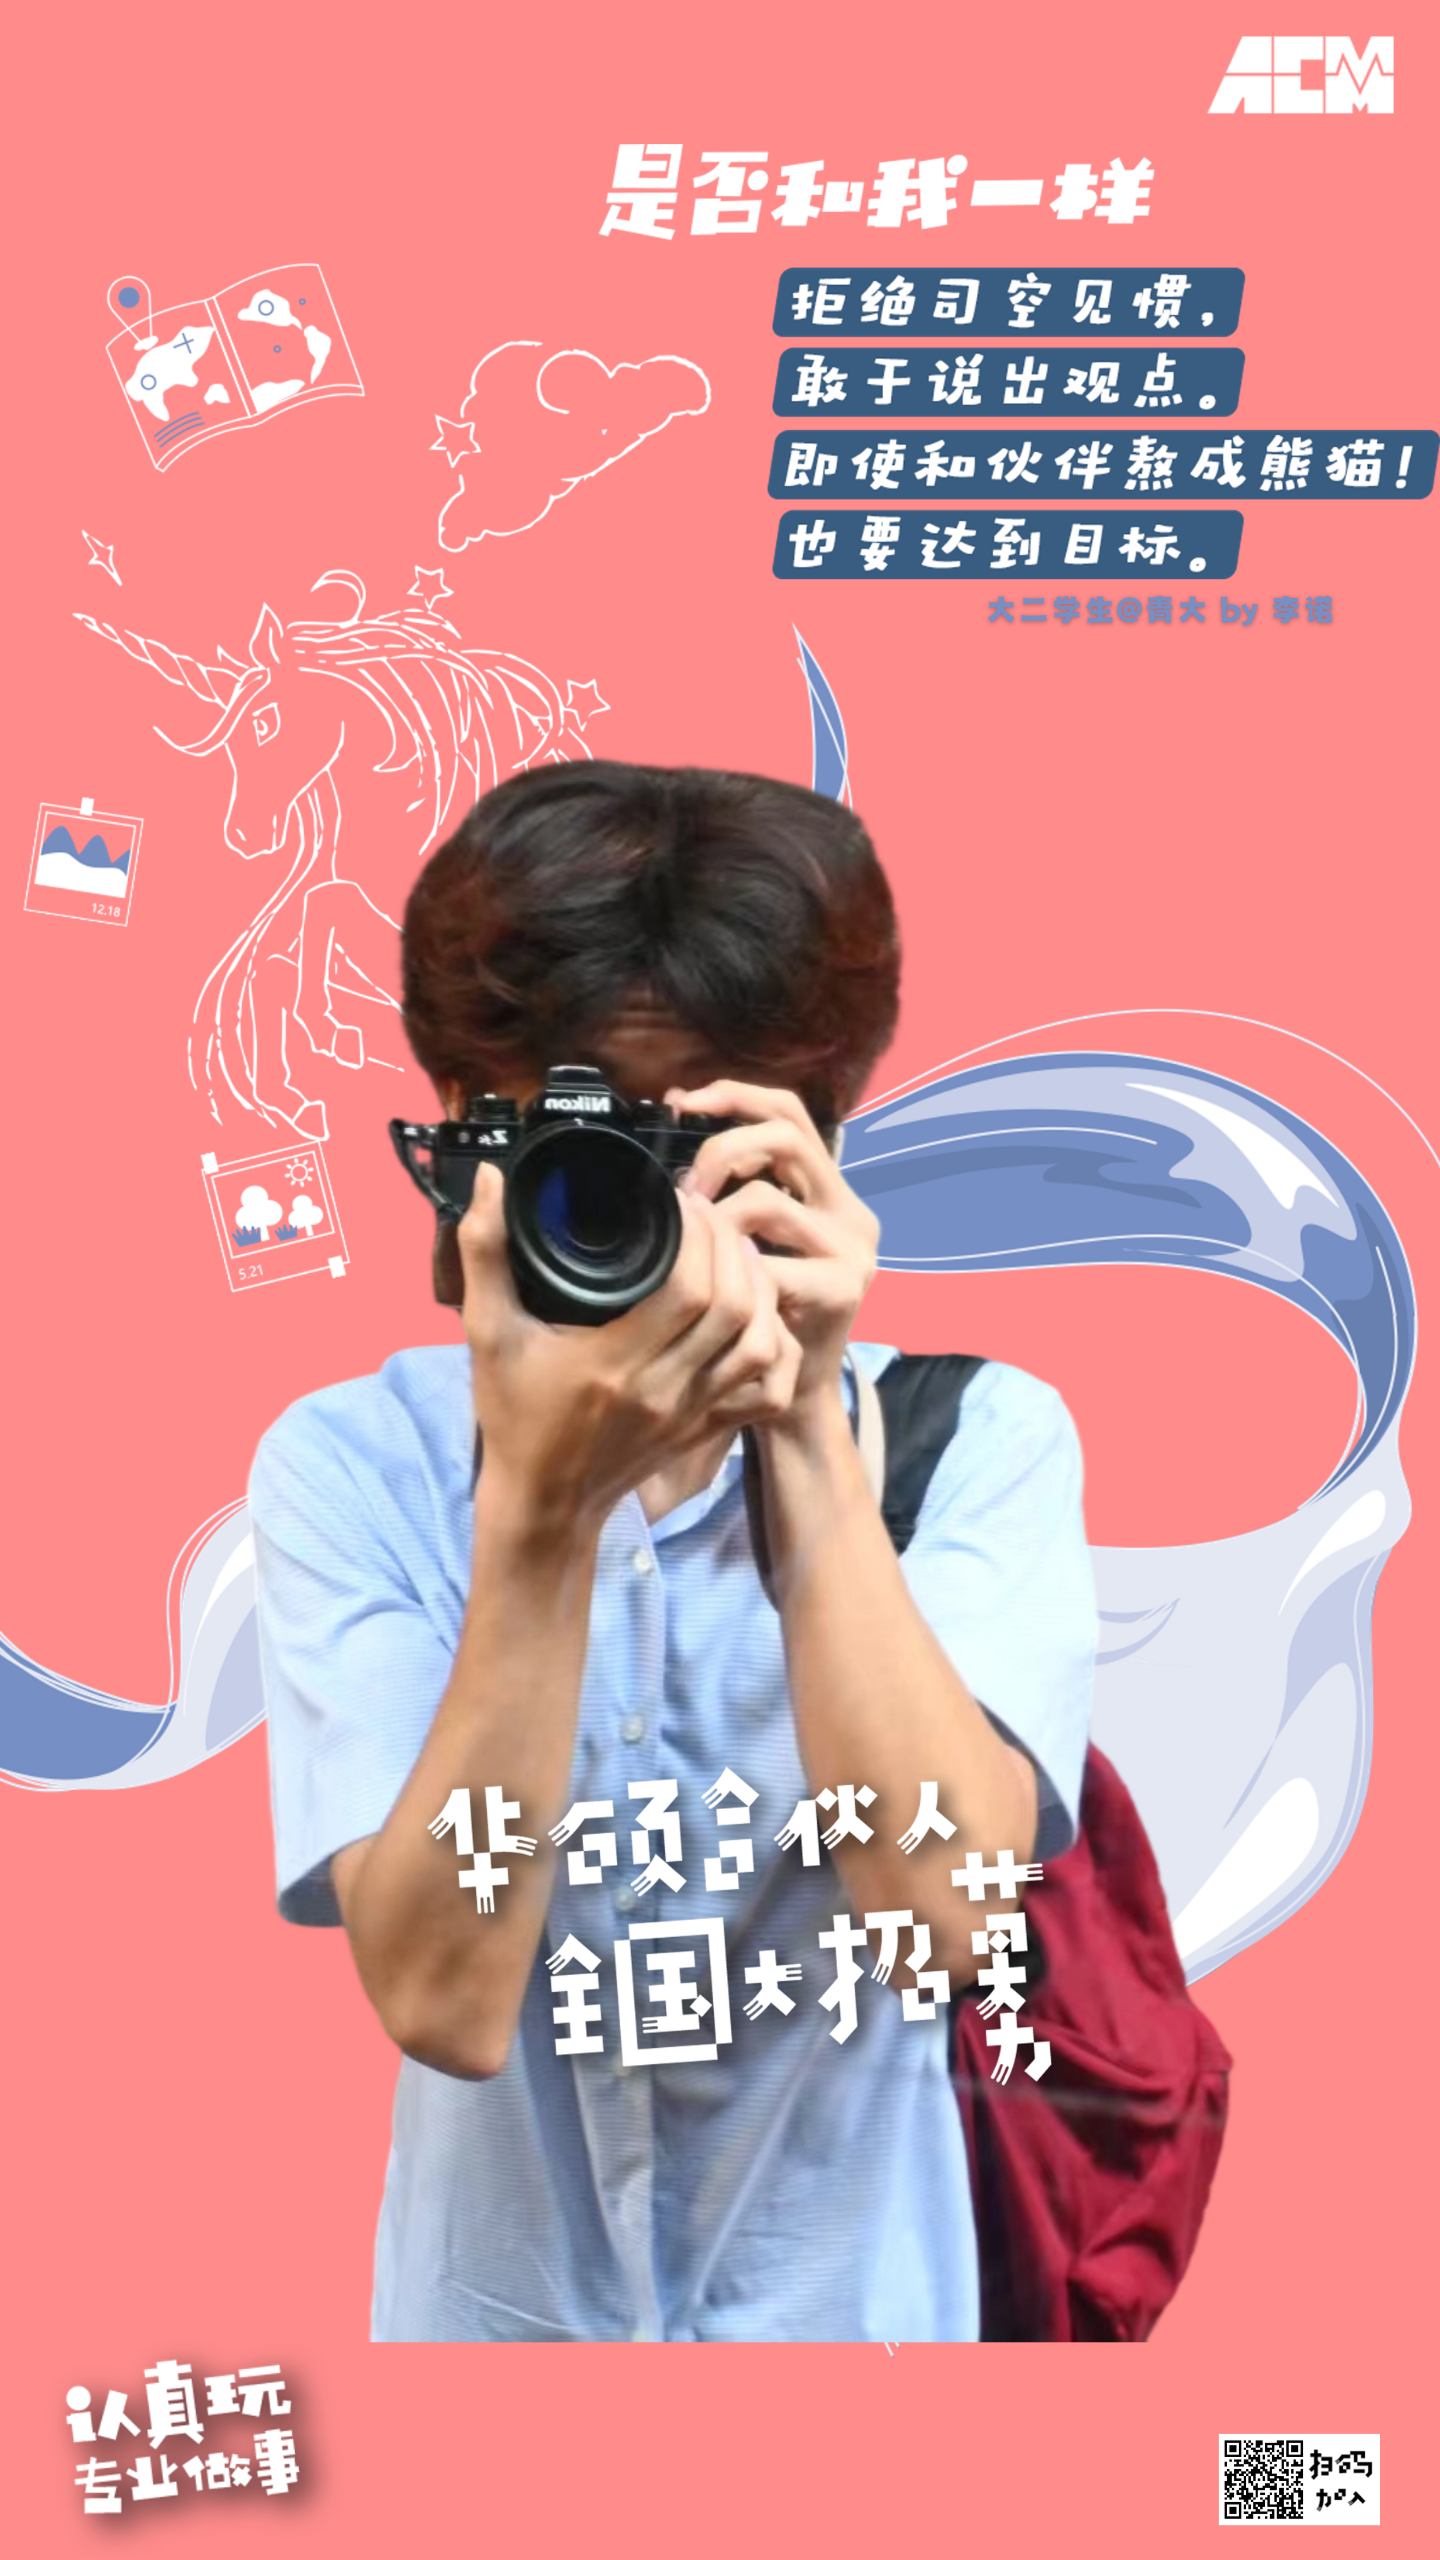
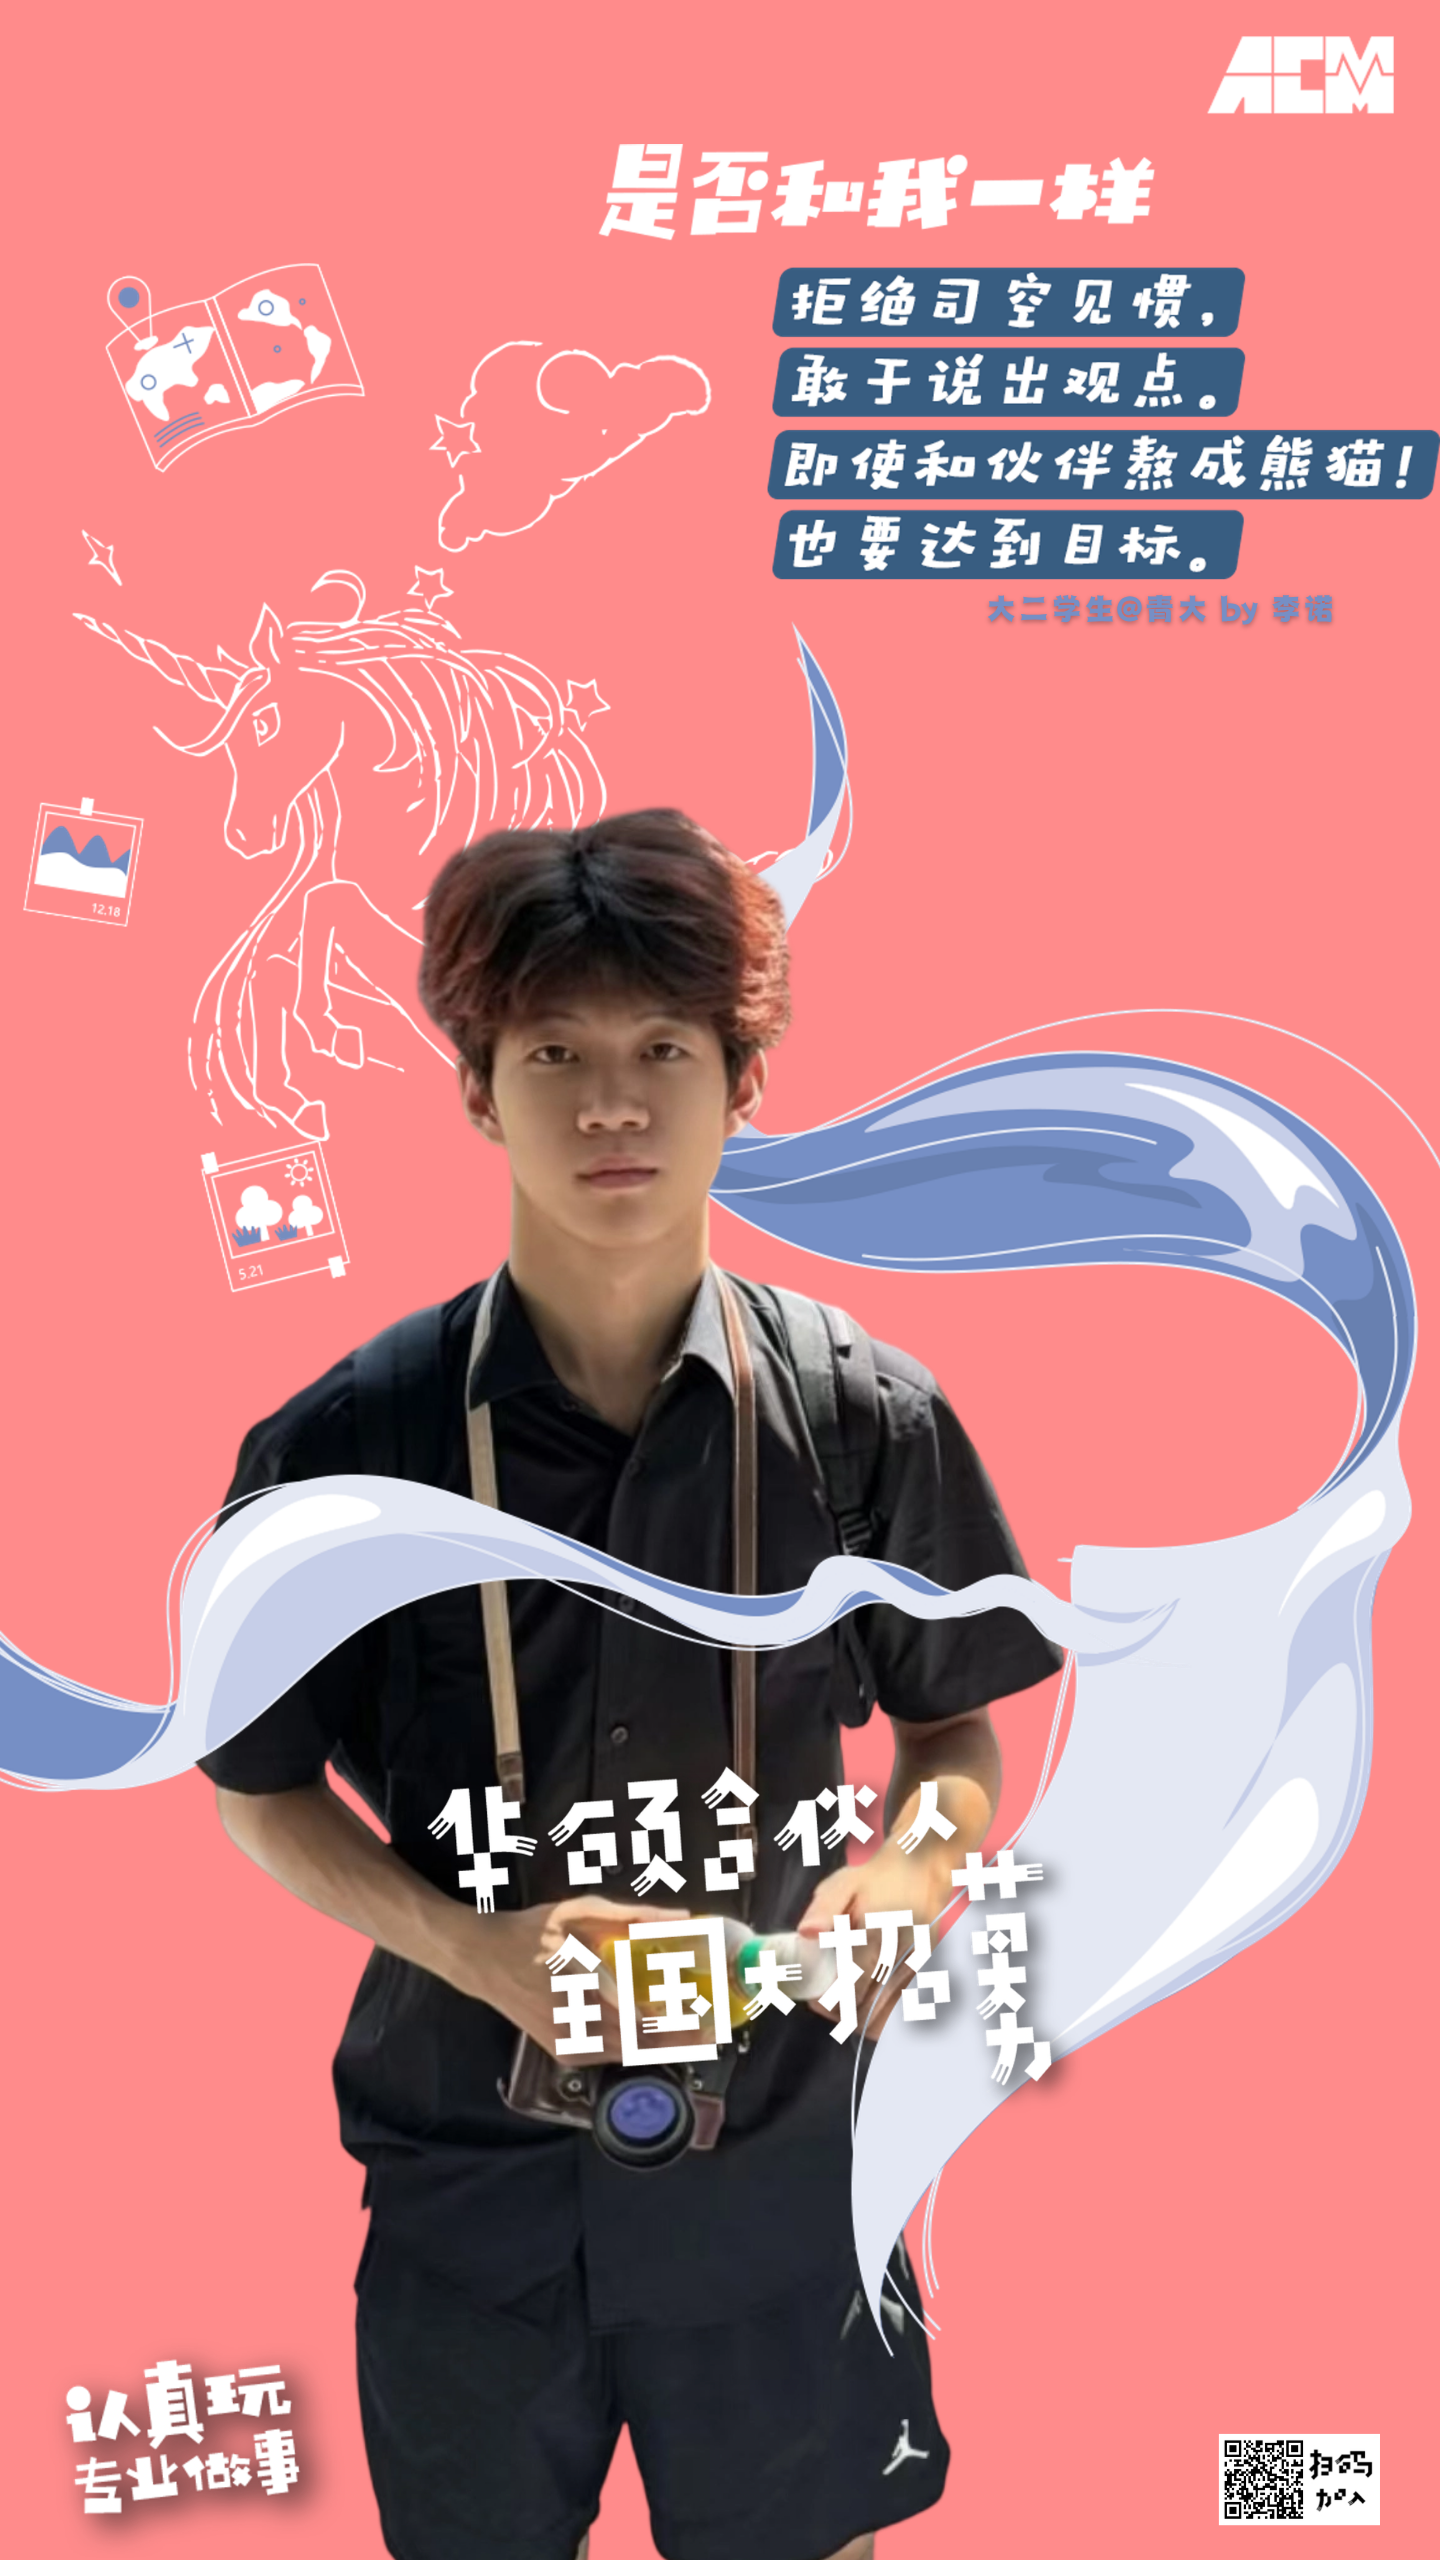
feat: 代言人海报扩充至 6 位（新增陈东宇/常灿/谭远鹏/骆帅，李诺换新海报）

Changed region(s): [[0.125, 0.2812, 0.875, 1.0]]

diff --git a/src/App.jsx b/src/App.jsx
@@ -3,8 +3,12 @@ import logo from './assets/logo.png'
 import hero from './assets/hero.jpg'
 import joinQr from './assets/qr/join-qr.jpg'
 import qqGroupQr from './assets/qr/qq-group-qr.png'
-import linuo from './assets/poster/linuo.png'
+import chendongyu from './assets/poster/chendongyu.png'
 import houhang from './assets/poster/houhang.png'
+import linuo from './assets/poster/linuo.png'
+import changcan from './assets/poster/changcan.png'
+import tanyuanpeng from './assets/poster/tanyuanpeng.png'
+import luoshuai from './assets/poster/luoshuai.png'
 
 // 自动收集 src/assets/activities/ 下的所有图片，放入文件夹即自动显示
 const activityPhotos = import.meta.glob('./assets/activities/*.{jpg,jpeg,png,webp,gif}', {
@@ -37,8 +41,12 @@ const activities = [
 ]
 
 const posters = [
-  { src: linuo, name: '李诺', grade: '大二' },
+  { src: chendongyu, name: '陈东宇', grade: '大三' },
   { src: houhang, name: '侯航', grade: '大二' },
+  { src: linuo, name: '李诺', grade: '大二' },
+  { src: changcan, name: '常灿', grade: '大二' },
+  { src: tanyuanpeng, name: '谭远鹏', grade: '大二' },
+  { src: luoshuai, name: '骆帅', grade: '大二' },
 ]
 
 /* ---------- 组件 ---------- */

diff --git a/src/styles.css b/src/styles.css
@@ -517,11 +517,11 @@ a {
 
 /* ---------- 代言人海报 ---------- */
 .poster-grid {
-  max-width: 880px;
+  max-width: 1000px;
   margin: 0 auto;
   display: grid;
-  grid-template-columns: repeat(2, 1fr);
-  gap: 28px;
+  grid-template-columns: repeat(3, 1fr);
+  gap: 24px;
 }
 
 .poster-card {
@@ -873,6 +873,12 @@ a {
 }
 
 /* ---------- 响应式 ---------- */
+@media (max-width: 900px) {
+  .poster-grid {
+    grid-template-columns: repeat(2, 1fr);
+  }
+}
+
 @media (max-width: 640px) {
   .nav-links {
     display: none;
